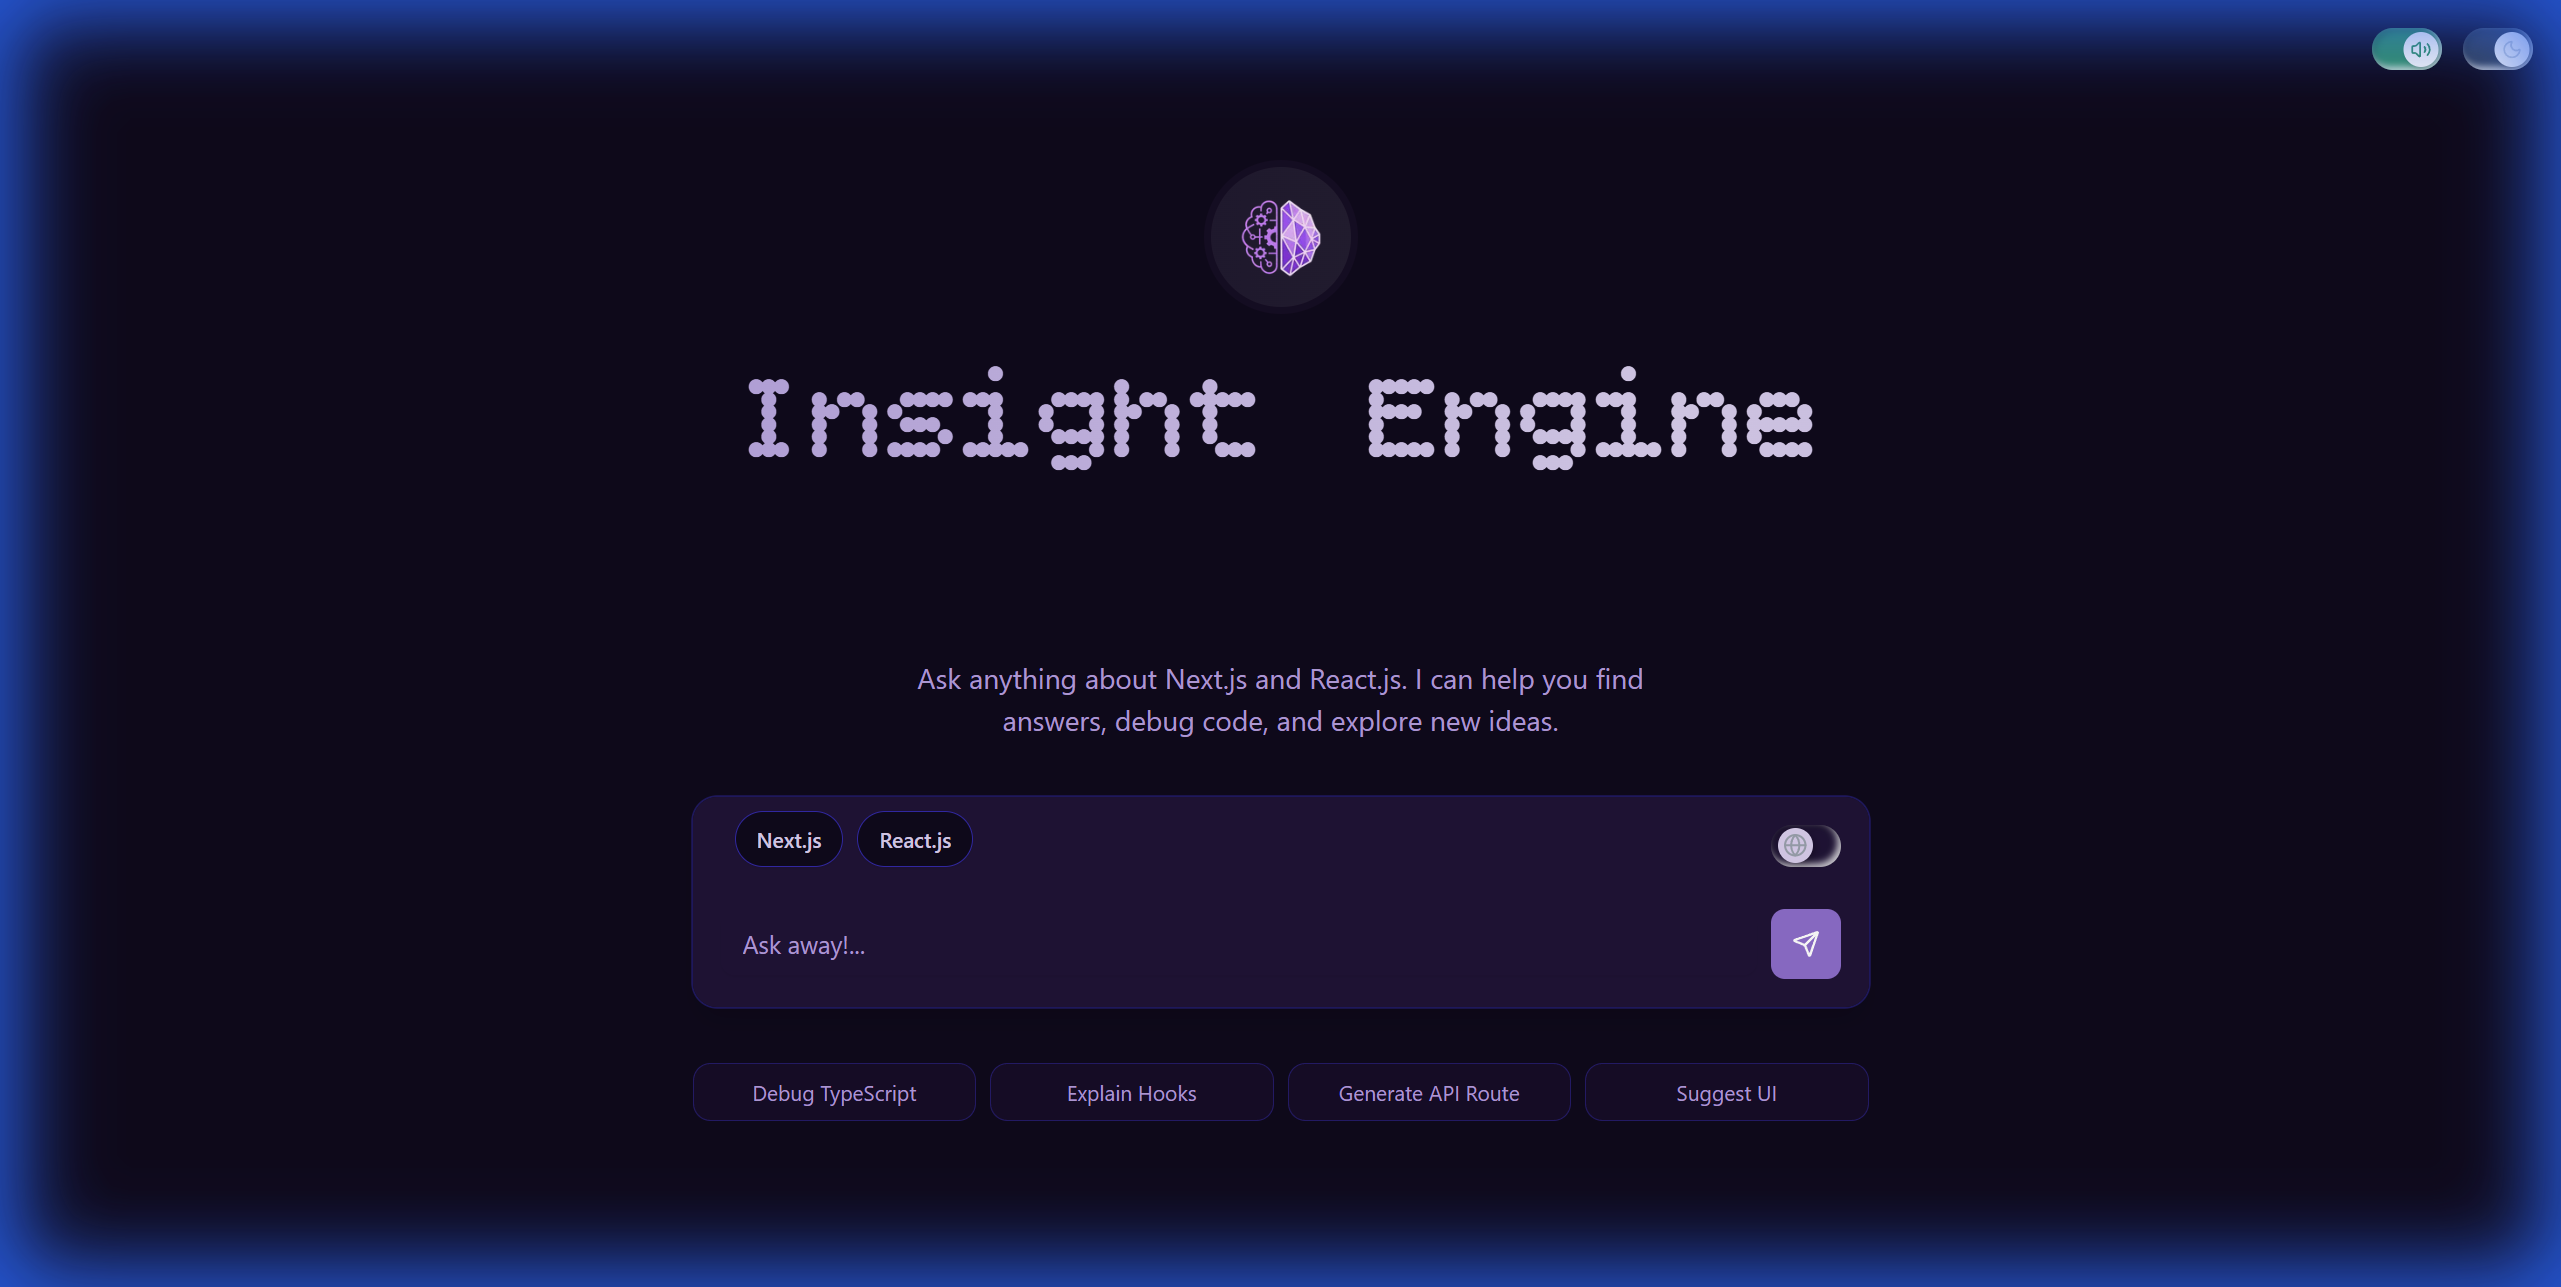
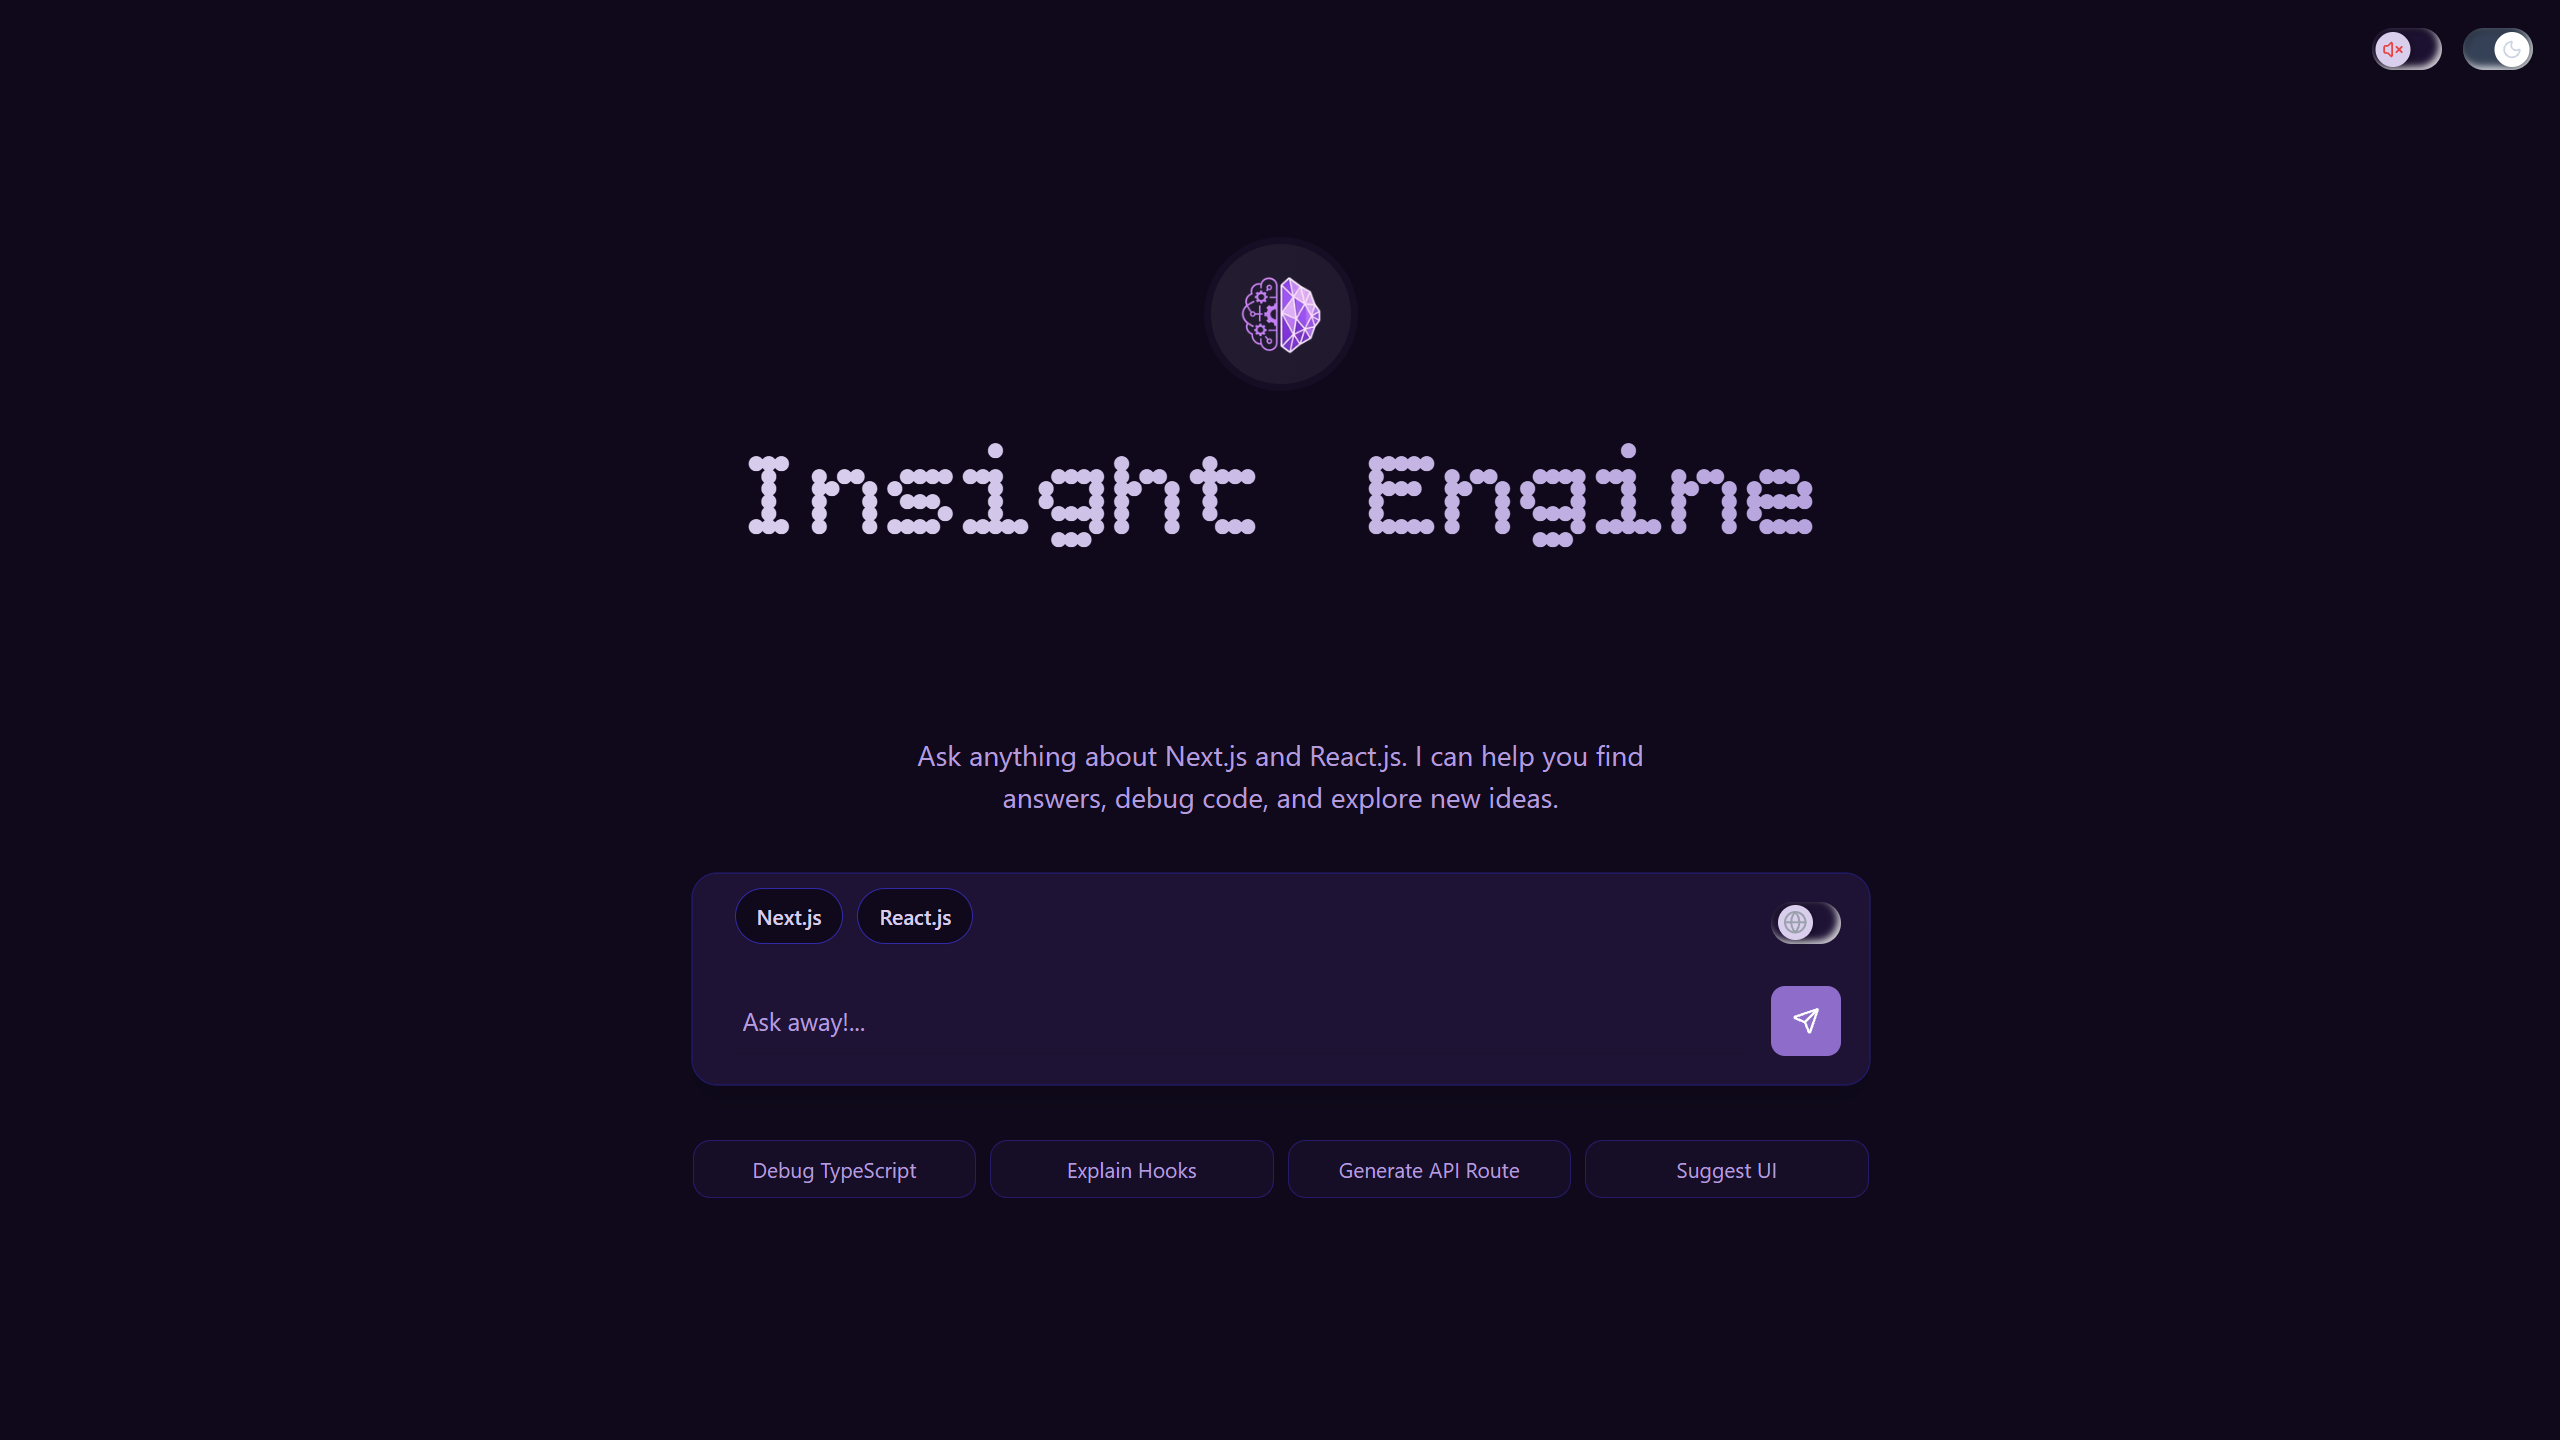
update readme

diff --git a/src/app/api/chat/route.ts b/src/app/api/chat/route.ts
@@ -96,8 +96,8 @@ export async function POST(req: Request) {
                 //This handles tool conversion and automatic function calling
                 //Retry logic for rate limits and model availability
                 const searchModels = [
-                    "gemini-3-flash-preview",           // primary - latest and fastest (20 RPD)
-                    "gemini-2.5-flash",                 // secondary - stable and reliable (15 RPD)
+                    // "gemini-3-flash-preview",           // primary - latest and fastest (20 RPD)
+                    "gemini-2.5-flash",                     // secondary - stable and reliable (15 RPD)
                     "gemini-2.0-flash"                  // fallback - older but still works (15 RPD)
                 ];
 
@@ -143,7 +143,7 @@ export async function POST(req: Request) {
 
         //Build final Context (Database search + Web search)
         //NOTE: change to webSearchContext if using OPTION A (API)
-        const finalContext = `documentation context:${docsContext}\n\n web search context:${mcpWebSearchContext}\n\n `
+        const finalContext = `documentation context:${docsContext}\n\n web search context:${mcpWebSearchContext.length}\n\n `
 
         //Set Up Gemini Stream
         const systemPrompt = `
@@ -161,7 +161,7 @@ export async function POST(req: Request) {
         //stream response from gemini (using context)
         //model fallback chain - tries each model in order until one works
         const modelsToTry = [
-            "gemini-3-flash-preview",                      // primary - latest and fastest (20 RPD)
+            // "gemini-3-flash-preview",                      // primary - latest and fastest (20 RPD)
             "gemini-2.5-flash",                            // secondary - stable fallback (20 RPD)
             "gemma-3-27b-it",                              // fallback - open weights, high limits (14k RPD)
         ];

diff --git a/src/components/web-search-toggle.tsx b/src/components/web-search-toggle.tsx
@@ -41,7 +41,7 @@ export function WebSearchToggle({ webSearch, setWebSearch }: WebSearchToggleProp
                     </div>
                 </TooltipTrigger>
                 <TooltipContent>
-                    <p>Web search might make the answer less grounded</p>
+                    <p>Web search is slower and might make the answer less grounded</p>
                 </TooltipContent>
             </Tooltip>
         </TooltipProvider>
